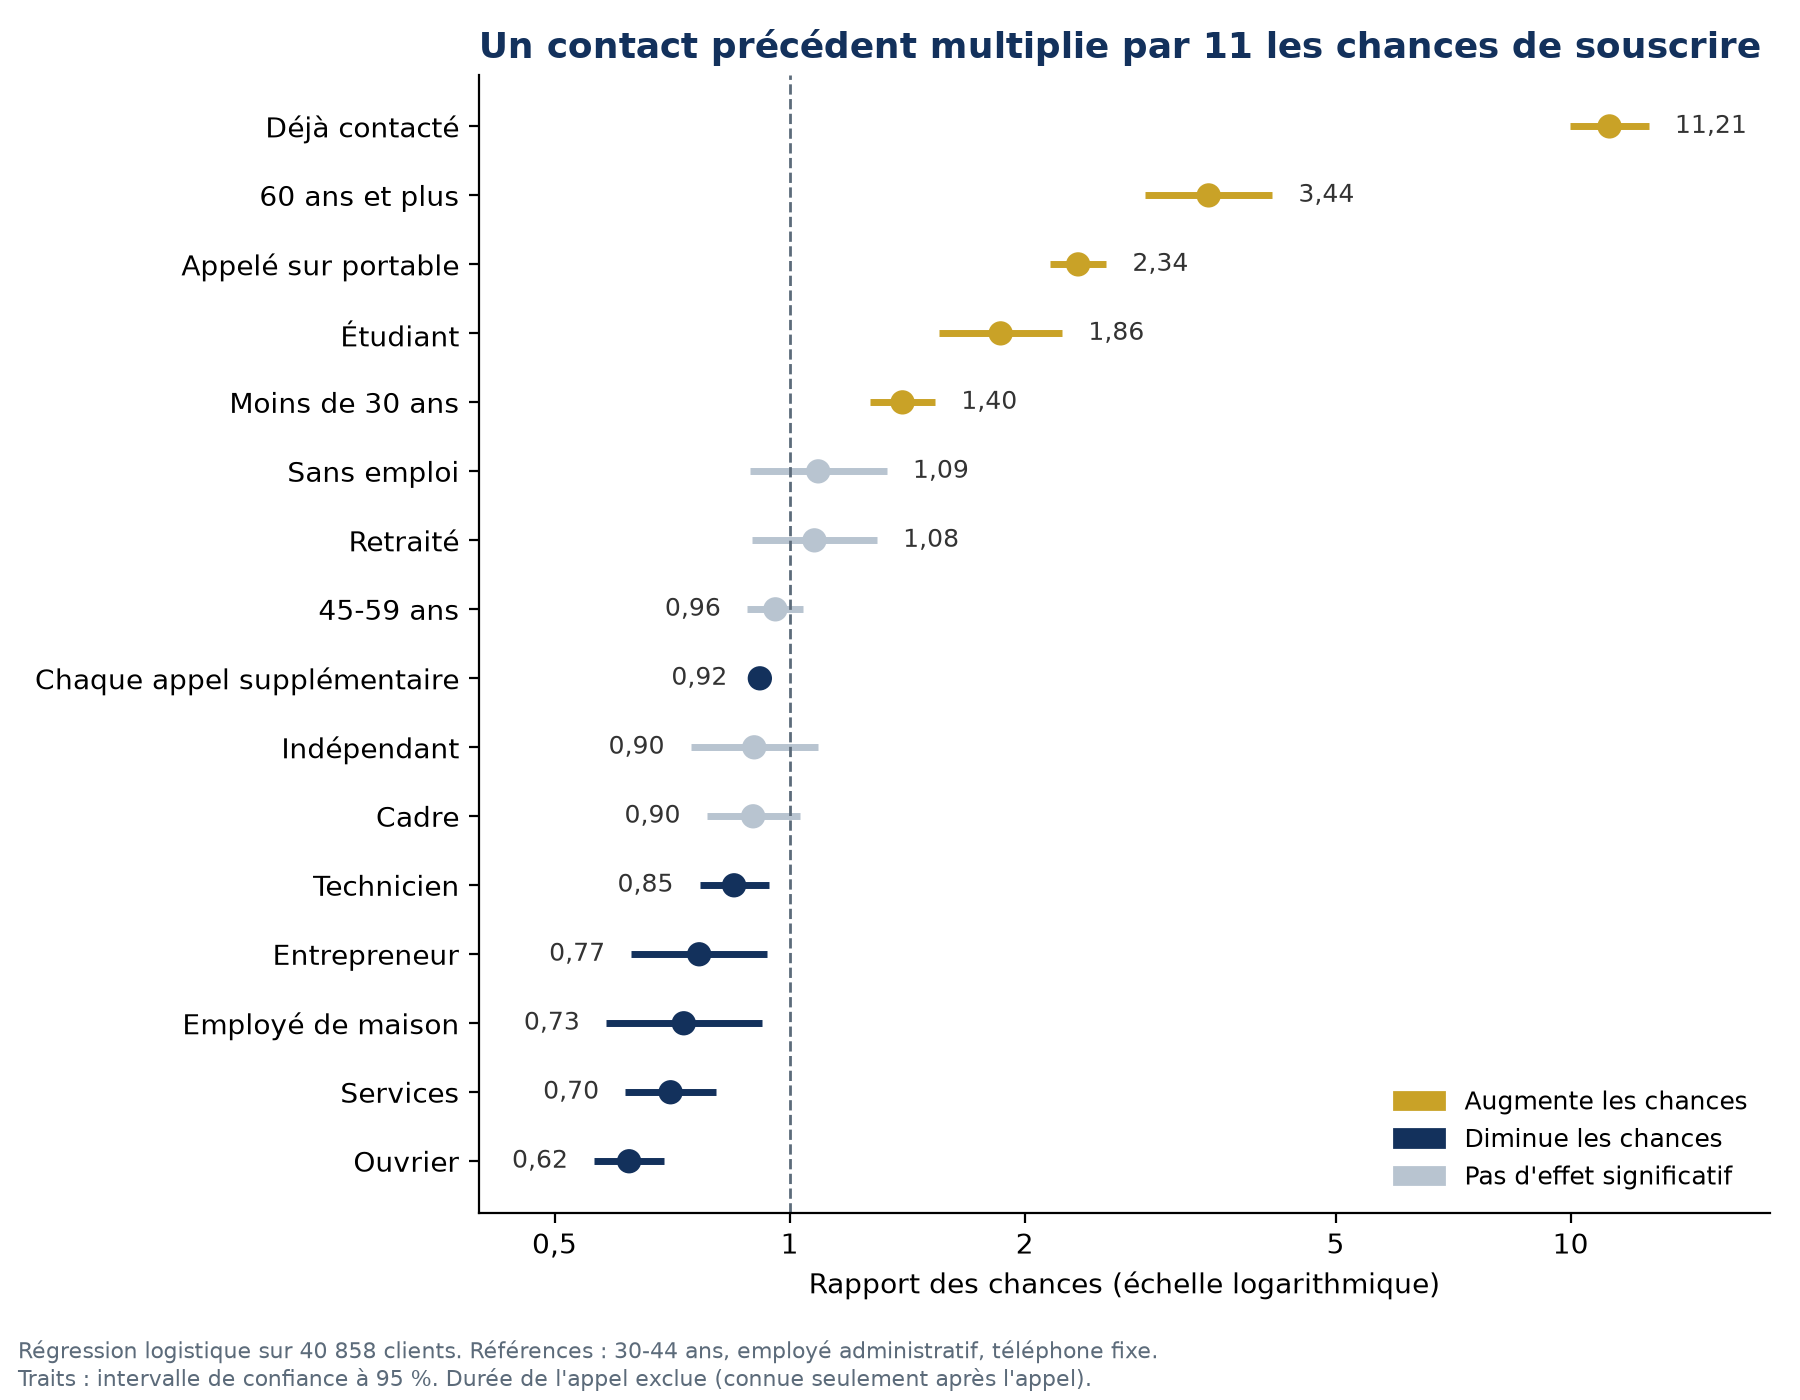
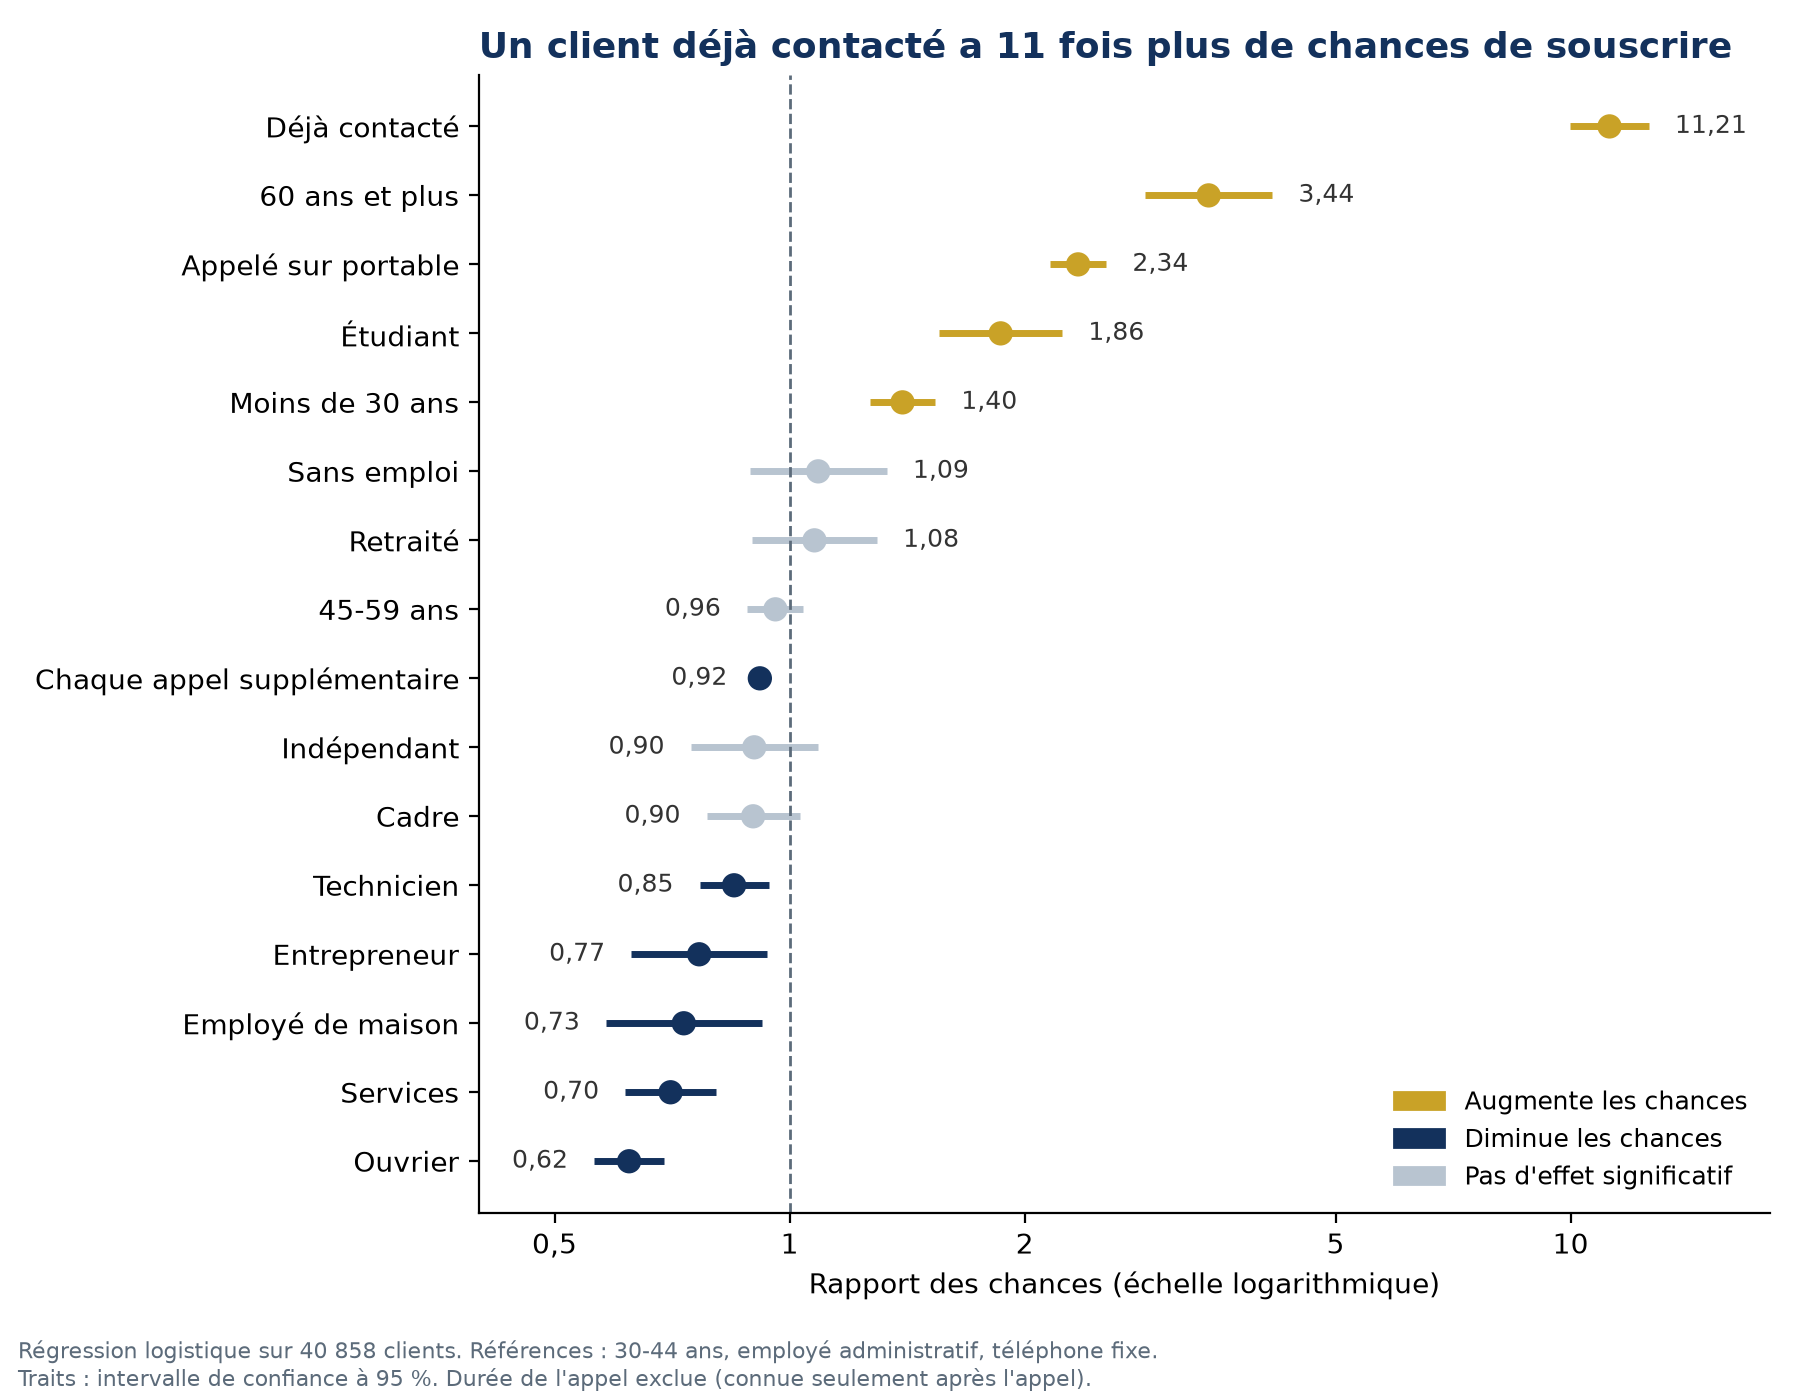
README : analyse statistique (tests du χ², régression logistique) et graphique des odds ratios
- section « Les écarts tiennent-ils ? » dans les résultats : V de Cramér,
  odds ratios à profil égal, retraités sans effet propre une fois l'âge
  pris en compte, lecture d'un odds ratio ;
- titre du graphique descriptif plutôt que causal ;
- requirements.txt complété (NumPy, SciPy, statsmodels, Matplotlib),
  Python 3.12 minimum ; arborescence et commandes de reproduction à jour.

Changed region(s): [[0.3111, 0.0, 0.9956, 0.0614]]

diff --git a/python/graphique_odds_ratios.py b/python/graphique_odds_ratios.py
@@ -79,7 +79,7 @@ ax.set_yticks(lignes)
 ax.set_yticklabels(odds["libelle"])
 ax.set_xlabel("Rapport des chances (échelle logarithmique)")
 ax.set_title(
-    "Un contact précédent multiplie par 11 les chances de souscrire",
+    "Un client déjà contacté a 11 fois plus de chances de souscrire",
     loc="left", fontsize=13, fontweight="bold", color=MARINE,
 )
 for cote in ("top", "right"):

diff --git a/README.md b/README.md
@@ -18,7 +18,7 @@ Projet réalisé par **Alexis Claudeon**, Data Analyst · [LinkedIn](https://www
 - **Contexte :** les banques migrent leurs traitements SAS vers Dataiku et Python (coût des licences, rareté des profils SAS, passage au cloud). Le risque : qu'un chiffre change pendant la migration sans que personne ne s'en aperçoive.
 - **Ce que j'ai fait :** j'ai écrit le même traitement dans les trois outils (nettoyage de 41 188 clients, deux indicateurs), puis un script Python qui compare les résultats.
 - **Résultat :** Dataiku et Python reproduisent SAS à l'identique, et six pièges de migration ont été identifiés et résolus en chemin.
-- **Apport métier :** un tableau de bord Power BI et quatre recommandations pour mieux cibler la campagne.
+- **Apport métier :** un tableau de bord Power BI et quatre recommandations pour mieux cibler la campagne, confirmées par des tests du χ² et une régression logistique.
 
 ## Résultats clés
 
@@ -31,6 +31,20 @@ Sur **41 188 clients** appelés, **4 640** ont souscrit un dépôt à terme, soi
 | Les **étudiants** et les **retraités** souscrivent le plus | 31,4 % et 25,2 % |
 | Les **ouvriers** sont très sollicités mais souscrivent le moins | 6,9 %, alors qu'ils forment le 2e groupe le plus appelé (9 254 clients) |
 | Le **portable** convertit près de 3 fois mieux que le fixe | 14,7 % contre 5,2 % |
+
+### Les écarts tiennent-ils ? Tests du χ² et régression logistique
+
+Le tableau compare les groupes un par un. Il laisse deux questions : un écart peut-il venir du hasard, et l'effet d'une variable n'est-il pas celui d'une autre (les retraités ont aussi plus de 60 ans) ? [`python/statistiques.py`](python/statistiques.py) y répond.
+
+- **Tests du χ² d'indépendance :** le contact précédent, le canal et la tranche d'âge sont tous trois liés à la souscription (p < 0,001). Sur 41 188 clients, presque tout écart est significatif ; le V de Cramér mesure donc la force du lien : 0,33 pour le contact précédent, 0,17 pour l'âge, 0,15 pour le canal.
+- **Régression logistique** sur 40 858 clients (les 330 au métier inconnu exclus) : elle estime l'effet de chaque variable à âge, métier, canal et nombre d'appels égaux.
+
+![Rapports des chances de la régression logistique, avec leurs intervalles de confiance à 95 %](docs/odds_ratios.png)
+
+- **Les quatre recommandations tiennent à profil égal :** déjà contacté 11,2, 60 ans et plus 3,4, portable 2,3, moins de 30 ans 1,4, ouvrier 0,62 (références : 30-44 ans, employé administratif, téléphone fixe).
+- **Les retraités n'ont pas d'effet propre** (1,08, intervalle de 0,89 à 1,29) : leur taux de 25,2 % s'explique par leur âge. Les étudiants gardent le leur (1,86).
+- **Plus un client est appelé pendant la campagne, moins il souscrit** (0,92 par appel supplémentaire). Le lien est en partie mécanique : un client qui a souscrit n'a plus de raison d'être rappelé.
+- **Comment lire ces chiffres :** un rapport des chances (odds ratio) compare des cotes, p / (1 − p), et non des taux. 11,2 ne veut donc pas dire « 11 fois plus de souscriptions » : les taux bruts, 63,8 % contre 9,3 %, font un écart d'environ 7. Le modèle mesure des liens, il n'est pas fait pour prédire (pseudo R² de McFadden : 0,13).
 
 ### Recommandations
 
@@ -99,7 +113,7 @@ Python vs SAS : identique
 
 ## Limites
 
-- **Corrélation n'est pas causalité.** Les clients déjà contactés ont pu être rappelés justement parce qu'ils étaient intéressés. Seule une campagne test avec un groupe témoin mesurerait l'effet réel du recontact.
+- **Corrélation n'est pas causalité.** La régression neutralise l'âge, le métier, le canal et le nombre d'appels, pas ce que les données ne mesurent pas : les clients déjà contactés ont pu être rappelés justement parce qu'ils étaient intéressés. Seule une campagne test avec un groupe témoin mesurerait l'effet réel du recontact.
 - **Petit effectif des étudiants.** Leur taux de 31,4 % repose sur 875 clients seulement ; il doit être confirmé sur d'autres campagnes.
 - **La durée d'appel (`duration`) est à exclure de tout modèle prédictif.** Elle n'est connue qu'une fois l'appel terminé : l'utiliser pour prédire la souscription serait une fuite de données.
 - **Qualité de la colonne `default`.** Elle ne compte que 3 « yes » et environ 21 % de valeurs inconnues, ce qui la rend peu exploitable.
@@ -111,10 +125,12 @@ Python vs SAS : identique
 | SAS OnDemand for Academics | traitement de référence : `proc import`, étape DATA, `proc sql`, `proc export` |
 | Dataiku Cloud | Flow visuel : recette Préparer, recettes Grouper avec pré-filtre |
 | Python 3.14, pandas 3.0.5 | traitement en code, recette de non-régression, scripts de contrôle |
+| SciPy, statsmodels | tests du χ² d'indépendance et V de Cramér, régression logistique (odds ratios, intervalles de confiance à 95 %) |
+| Matplotlib | graphique des odds ratios |
 | Power BI Desktop | tableau de bord avec filtres, mesures DAX, Power Query (code M), thème personnalisé |
 | Git, GitHub | versionnement du projet |
 
-Compétences transverses : qualité des données, tests de non-régression, analyse de la conversion, recommandations métier.
+Compétences transverses : qualité des données, tests de non-régression, statistiques (tests du χ², régression logistique), analyse de la conversion, recommandations métier.
 
 ## Données
 
@@ -198,6 +214,7 @@ bank-sas-migration/
 │   ├── dataiku_kpi_contact.csv
 │   ├── python_kpi_metier.csv              indicateurs produits par traitement.py
 │   ├── python_kpi_contact.csv
+│   ├── odds_ratios.csv                    rapports des chances (sortie de statistiques.py)
 │   └── archive/                           premiers exports SAS, avec formats (test d'échec)
 ├── sas/
 │   └── 01_traitement_sas.sas
@@ -208,7 +225,11 @@ bank-sas-migration/
 │   ├── traitement.py                      nettoyage et indicateurs
 │   ├── recette.py                         comparaison SAS / Dataiku / Python
 │   ├── inspection.py                      aperçu des colonnes et des types des trois exports
-│   └── diagnostic.py                      contrôle rapide d'un export SAS
+│   ├── diagnostic.py                      contrôle rapide d'un export SAS
+│   ├── statistiques.py                    tests du χ² et régression logistique
+│   └── graphique_odds_ratios.py           graphique des odds ratios
+├── docs/
+│   └── odds_ratios.png
 ├── powerbi/
 │   ├── bank_dashboard.pbix
 │   ├── theme_banque.json
@@ -224,7 +245,7 @@ bank-sas-migration/
 
 <br>
 
-Prérequis : Python 3.11 ou plus récent (projet testé avec Python 3.14 et pandas 3.0.5).
+Prérequis : Python 3.12 ou plus récent, qu'exigent NumPy et SciPy. Projet testé avec Python 3.14 et pandas 3.0.5 ; toute la chaîne, analyse statistique comprise, relancée avec Python 3.12 et les versions de `requirements.txt`.
 
 ```bash
 git clone https://github.com/Alexis45140/bank-sas-migration.git
@@ -240,10 +261,12 @@ pip install -r requirements.txt
 ```
 
 ```bash
-python python/traitement.py    # nettoyage et indicateurs : data/processed/ et outputs/python_*
-python python/recette.py       # comparaison SAS / Dataiku / Python
-python python/inspection.py    # aperçu des trois exports kpi_metier
-python python/diagnostic.py    # contrôle de l'export SAS kpi_metier
+python python/traitement.py             # nettoyage et indicateurs : data/processed/ et outputs/python_*
+python python/recette.py                # comparaison SAS / Dataiku / Python
+python python/inspection.py             # aperçu des trois exports kpi_metier
+python python/diagnostic.py             # contrôle de l'export SAS kpi_metier
+python python/statistiques.py           # tests du χ² et régression logistique : outputs/odds_ratios.csv
+python python/graphique_odds_ratios.py  # graphique des odds ratios : docs/odds_ratios.png
 ```
 
 Les scripts repèrent la racine du dépôt à partir de leur propre emplacement : ils fonctionnent quel que soit le dossier d'où on les lance.
